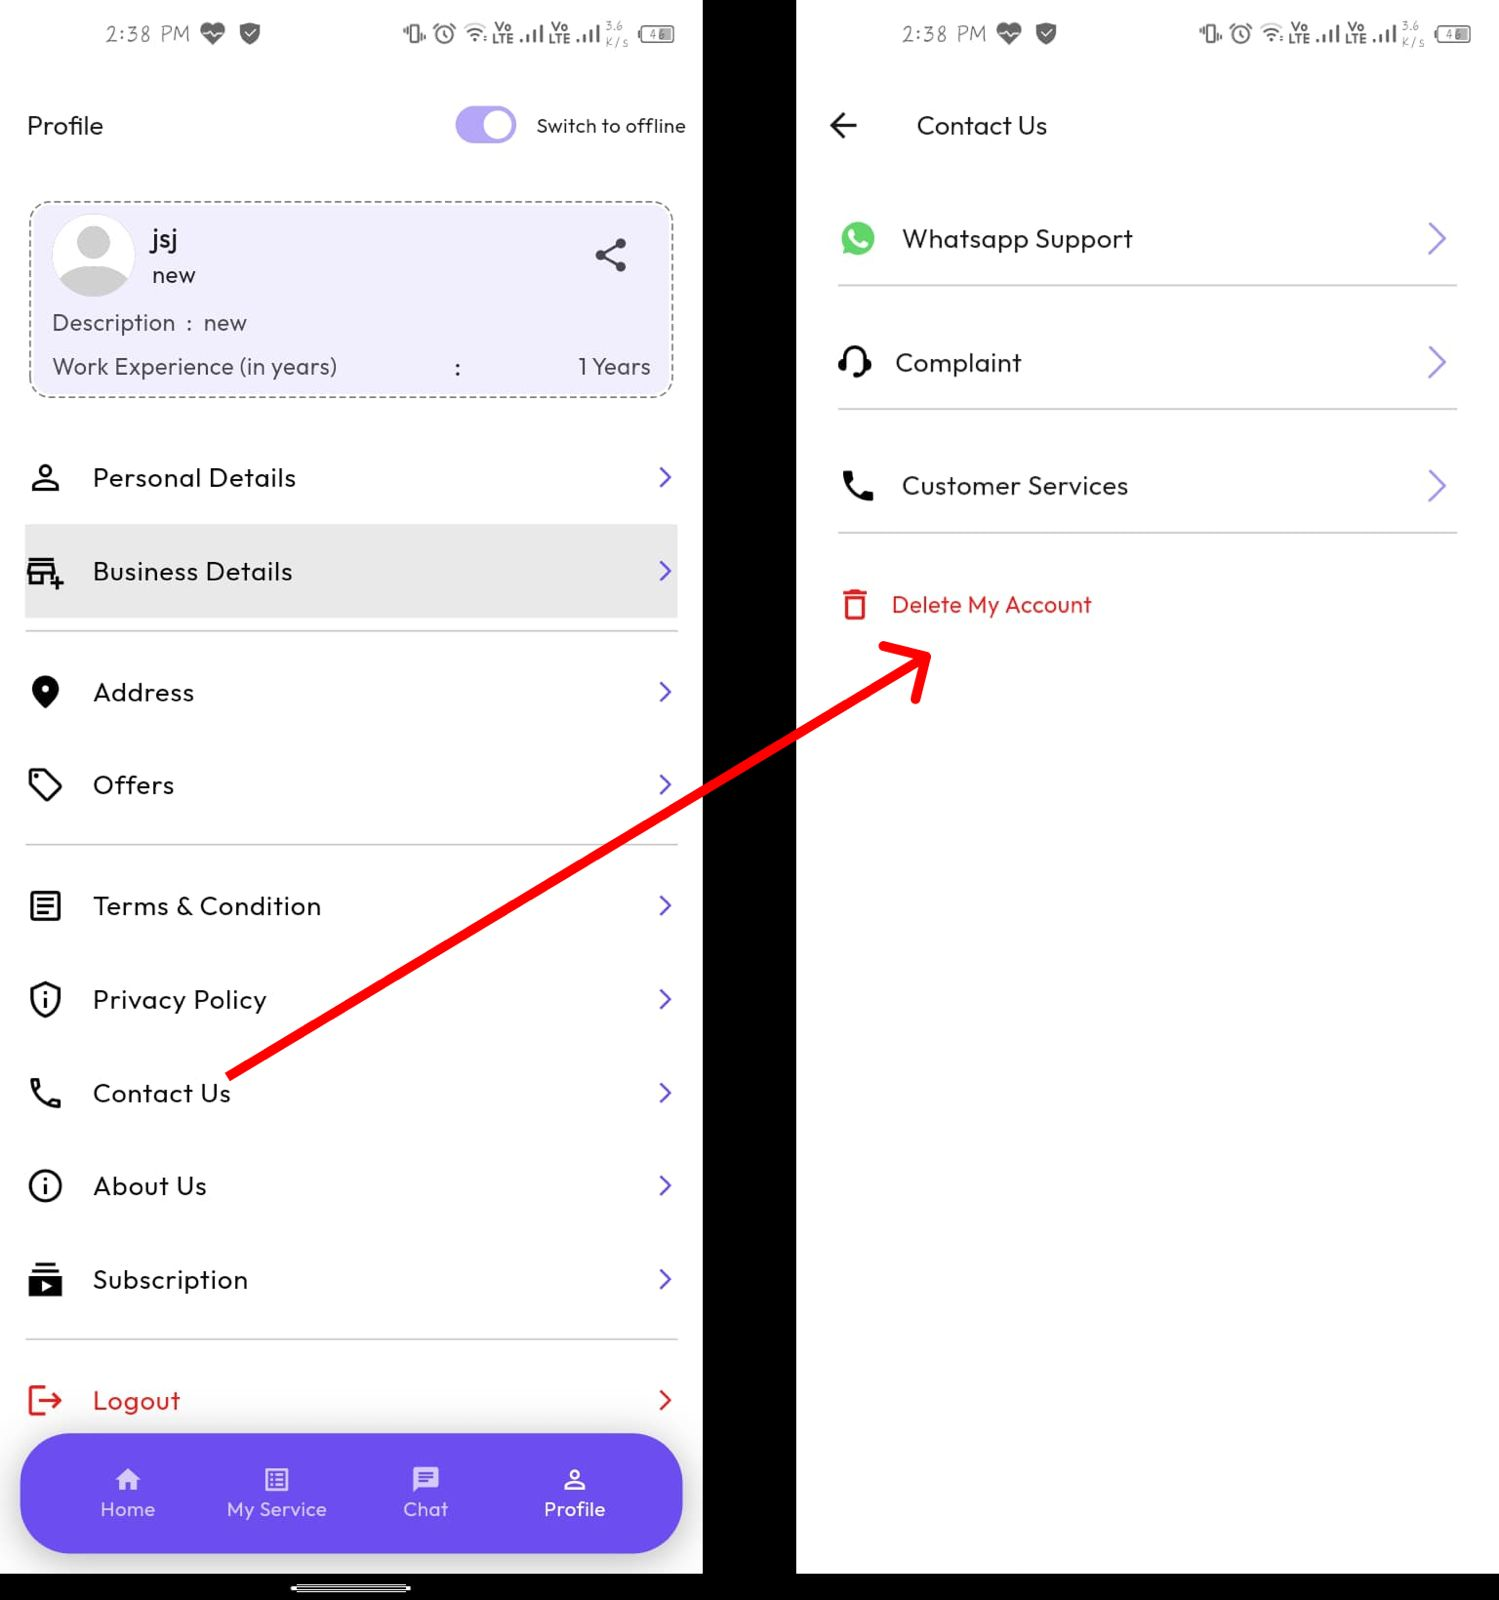
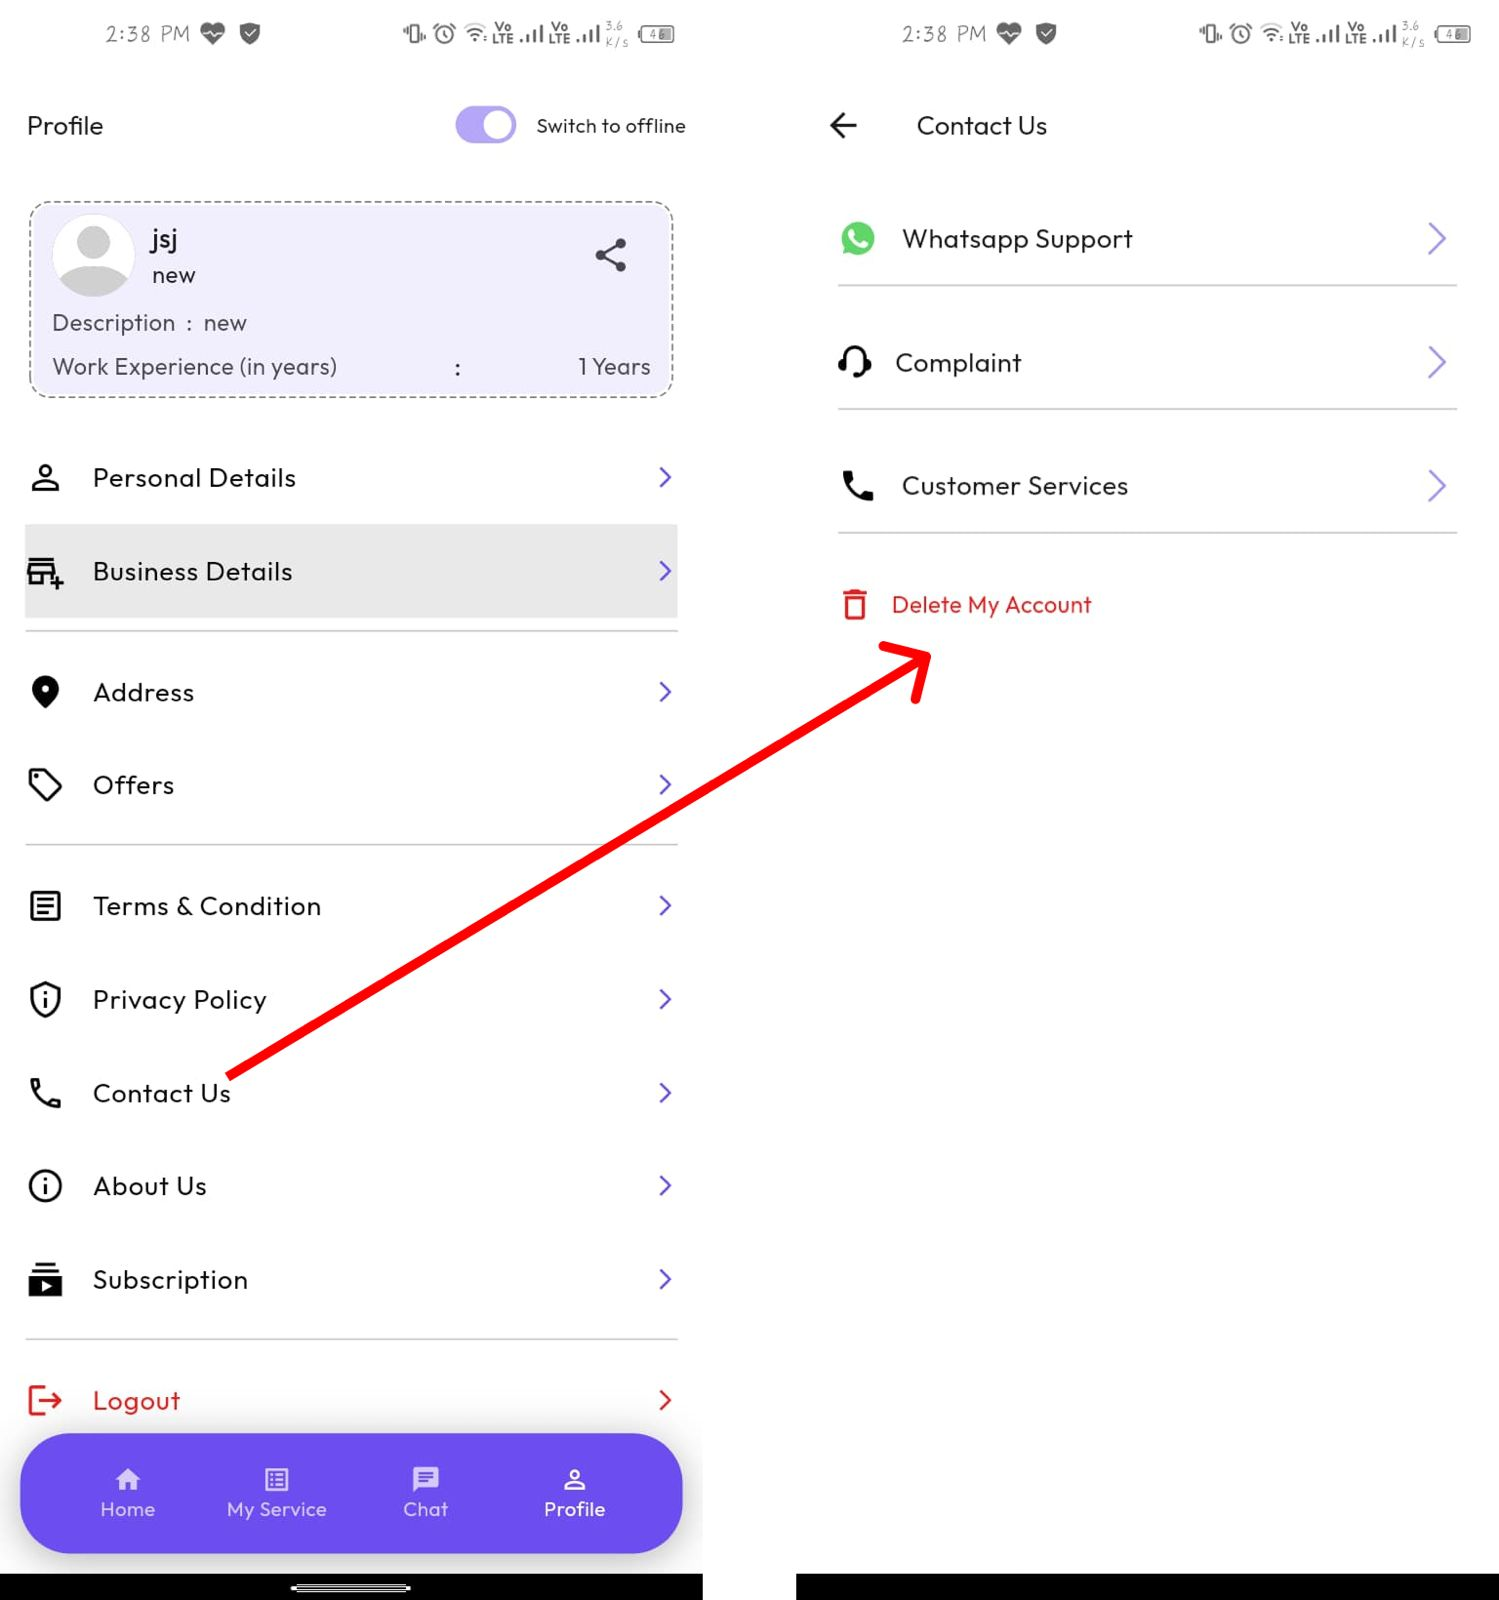
change iimg

Changed region(s): [[0.4603, 0.0, 0.5524, 1.0]]

diff --git a/src/Components/DeleteAccount.jsx b/src/Components/DeleteAccount.jsx
@@ -2,7 +2,7 @@
 import { useState } from 'react';
 import ss1 from '../assets/Images/Png/ss1.jpeg';
 import ss2 from '../assets/Images/Png/ss2.jpeg';
-import ss3 from '../assets/Images/Png/ss3.jpeg';
+import ss11 from '../assets/Images/Png/ss11.jpeg';
 import ss4 from '../assets/Images/Png/ss4.jpeg';
 
 const DeleteAccount = () => {
@@ -49,7 +49,8 @@ const DeleteAccount = () => {
             <p className="text-sm font-normal text-black mt-2">
               Look for the "Delete Account" feature or button
                 </p>
-                <div className='flex gap-5'> <img className='w-[300px] py-6' src={ss3} alt="ss" />
+                <div className='flex gap-5'>
+                    <img className='w-[600px] py-6' src={ss11} alt="ss" />
                  </div>
           </>
         );
